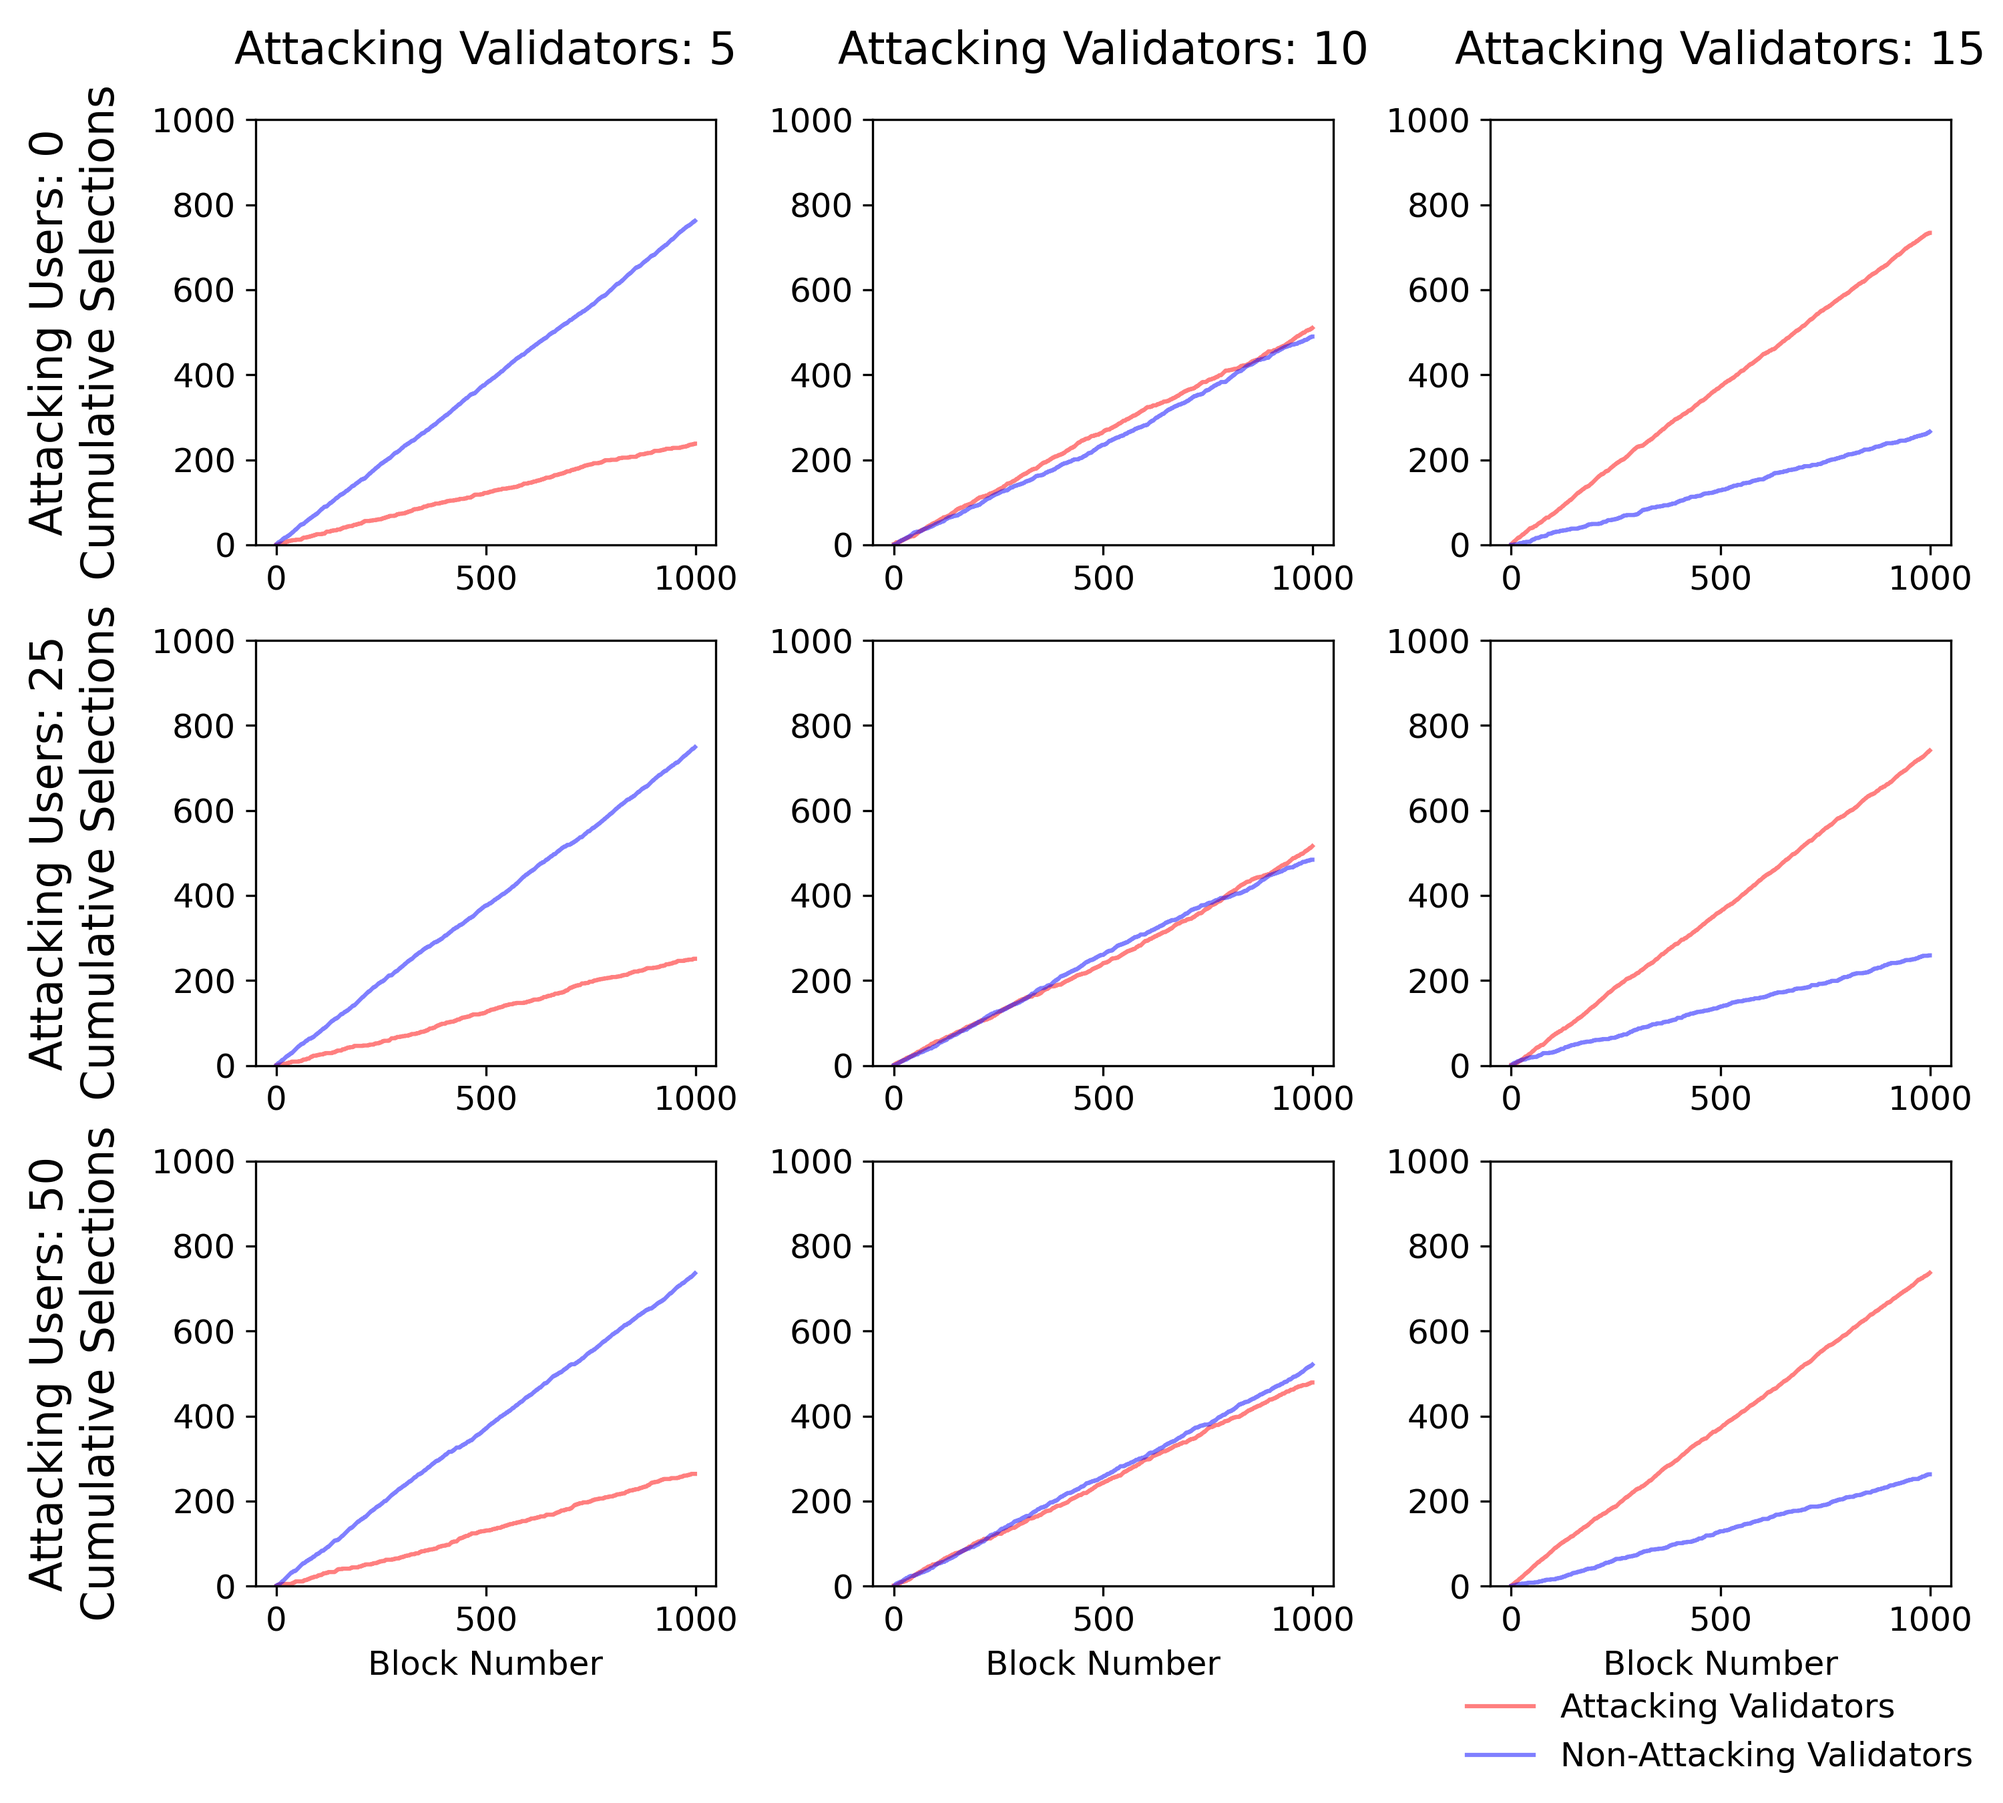
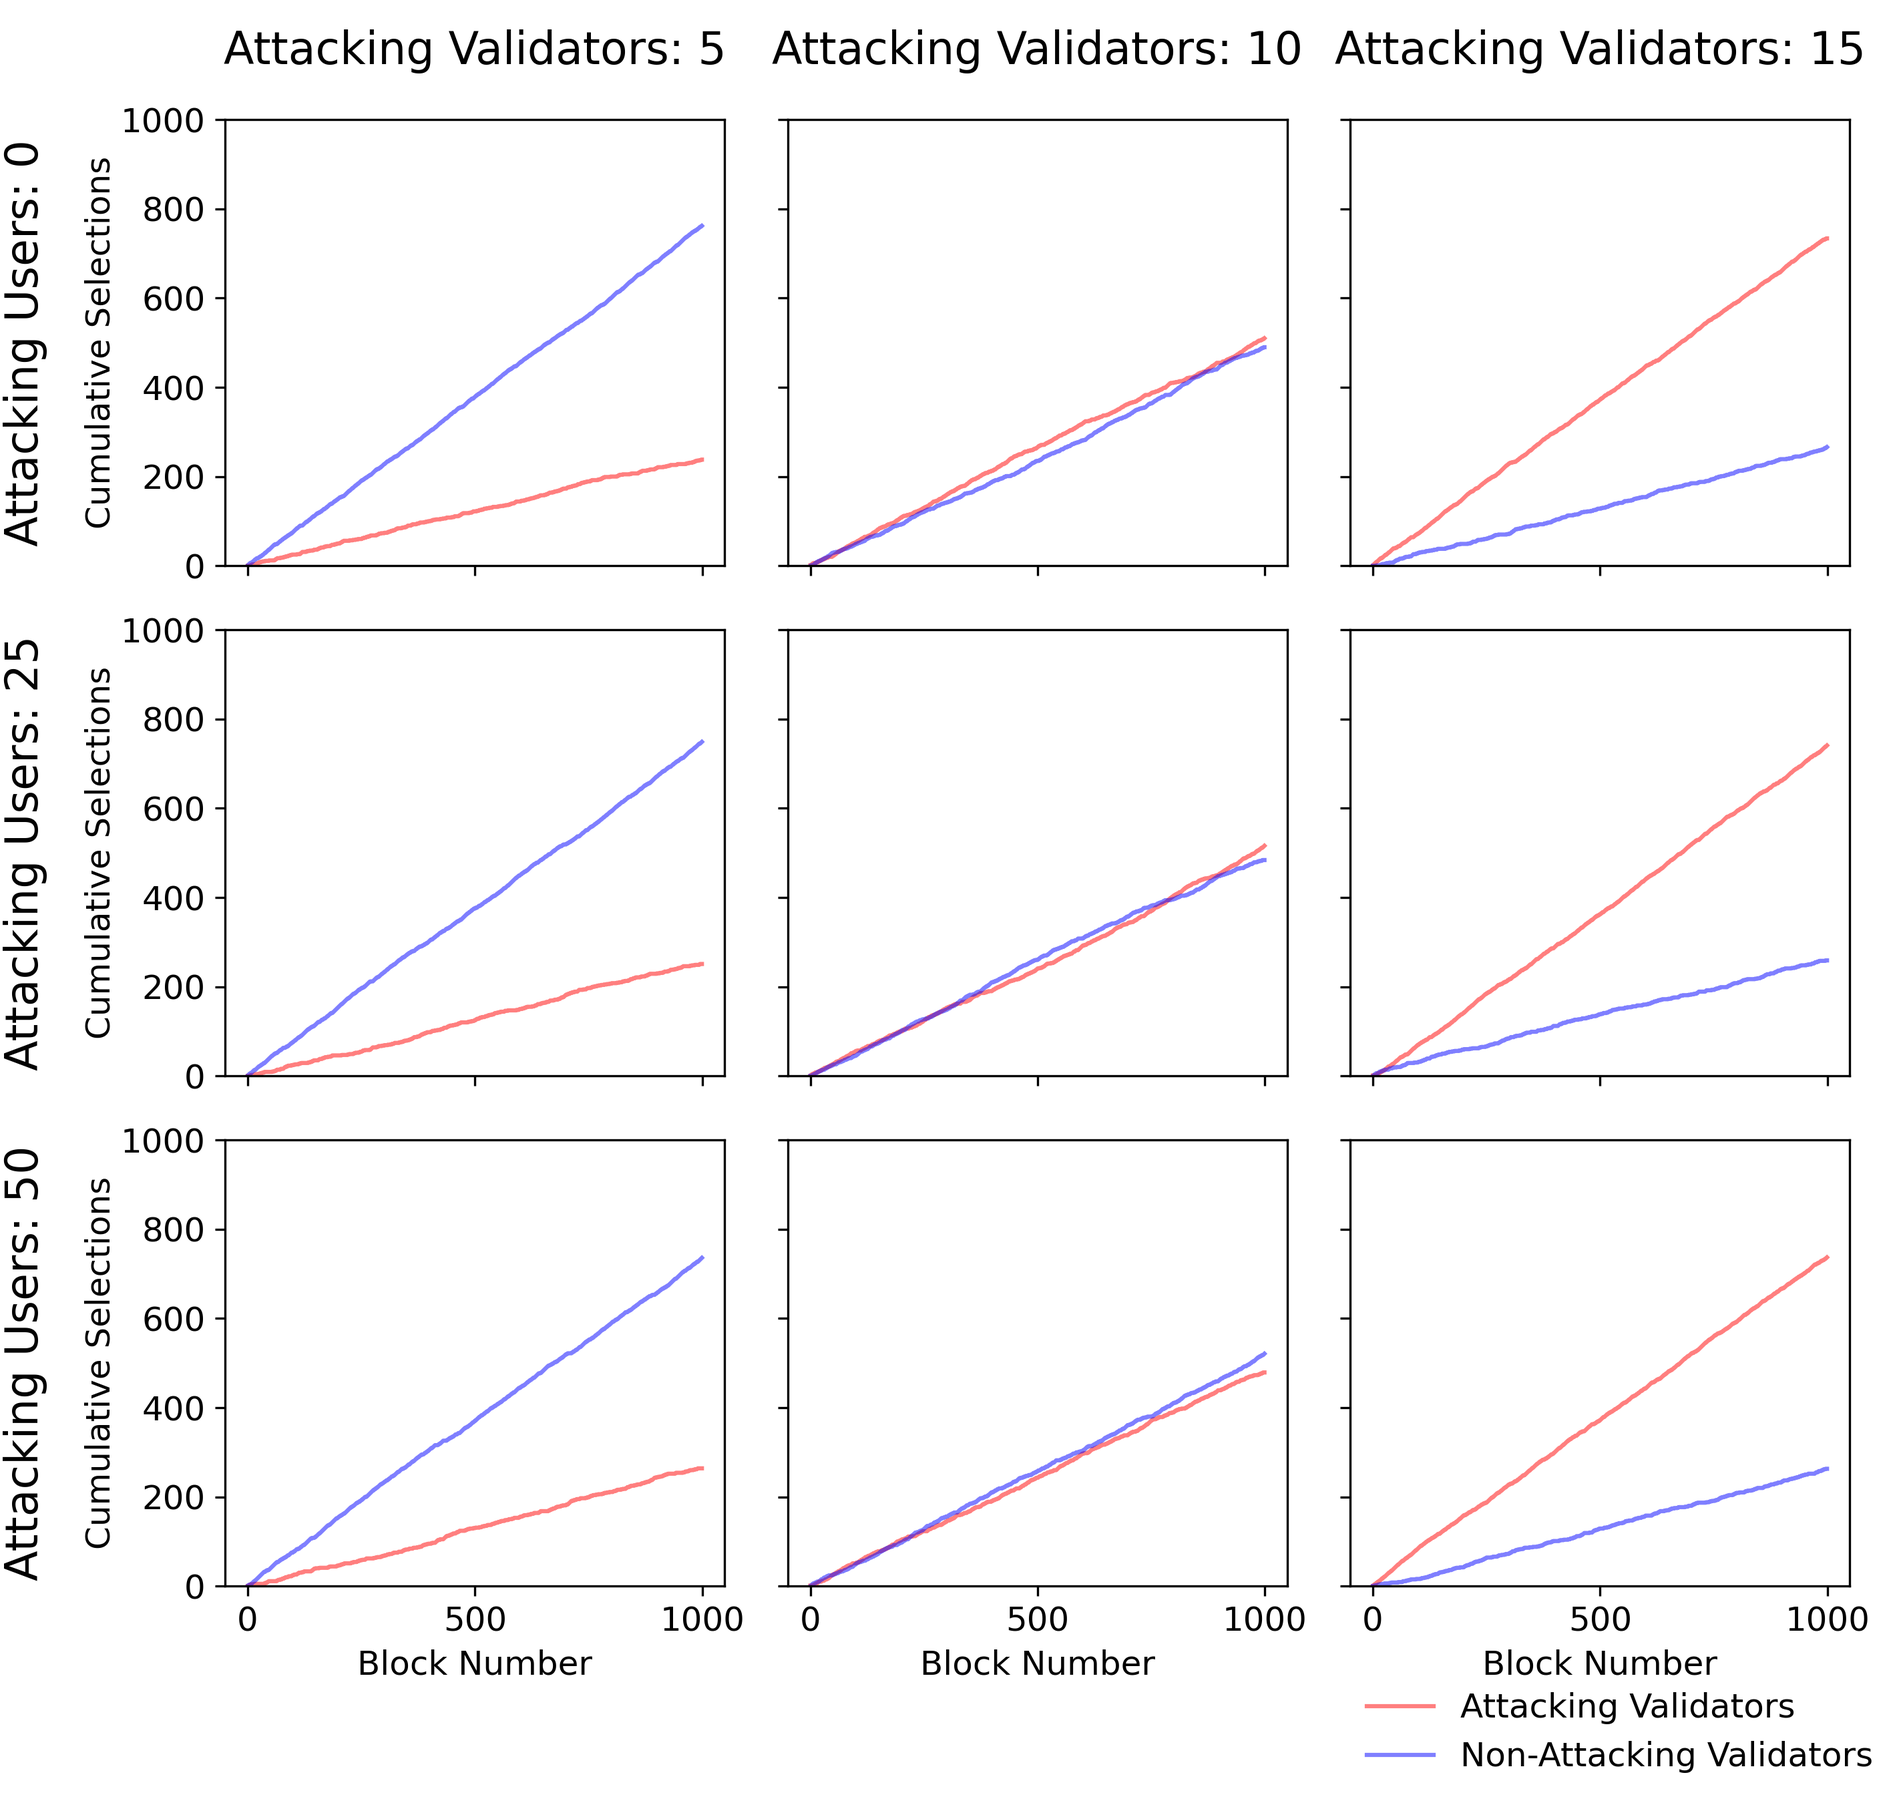
3*3 update

diff --git a/plots/ss/pbs_selection_3*3.py b/plots/ss/pbs_selection_3*3.py
@@ -41,63 +41,90 @@ def get_builder_counts_by_block(file_path, builder_attack_count):
 
     return attacking_counts, non_attacking_counts
 
-def parse_filename(filename):
-    """Parse the filename to extract builder and user attack counts."""
-    match = re.search(r'builders(\d+)_users(\d+)', filename)
-    if match:
-        try:
-            builder_attack_count = int(match.group(1))
-            user_attack_count = int(match.group(2))
-            return builder_attack_count, user_attack_count
-        except ValueError:
-            print(f"Could not parse builder or user attack counts from filename: {filename}")
-    else:
-        print(f"Skipping file with unexpected format: {filename}")
-    return None, None
-
 def plot_cumulative_selections_over_blocks(data_folder, configs):
-    """Plot cumulative selections over blocks for specified builder and user attack configurations as a 3x3 grid."""
+    """Plot cumulative selections over blocks for specified builder and user attack configurations in a 3x3 grid."""
     # Ensure the output directory exists
     output_dir = 'figures/ss'
     os.makedirs(output_dir, exist_ok=True)
 
-    # Set up the 3x3 grid
-    fig, axes = plt.subplots(3, 3, figsize=(15, 15))
+    # Extract unique counts of builders and users for row/column labels
+    builder_counts = sorted(set(config[0] for config in configs))
+    user_counts = sorted(set(config[1] for config in configs))
+
+    # Adjust figsize to maintain square subplots
+    fig, axes = plt.subplots(len(user_counts), len(builder_counts), figsize=(9.5, 9), squeeze=False)
     y_limit = 1000  # Set common y-axis limit for consistency across plots
-    
-    # Updated font sizes
-    title_font_size = 20  # Larger font for titles
-    label_font_size = 18  # Larger font for axis labels
-    legend_font_size = 14  # Larger font for legend
-    tick_label_font_size = 14  # Larger font for axis tick labels
+
+    # Font sizes for readability
+    label_font_size = 12
+    tick_label_font_size = 12
+    outer_label_font_size = 16
+
+    # Create handles for a unified legend
+    handles = []
+    labels = []
 
     for i, (builder_attack_count, user_attack_count) in enumerate(configs):
         filename = f"pbs_block_data_builders{builder_attack_count}_users{user_attack_count}.csv"
         file_path = os.path.join(data_folder, filename)
+
+        row = user_counts.index(user_attack_count)
+        col = builder_counts.index(builder_attack_count)
+        ax = axes[row, col]
         
         if not os.path.exists(file_path):
             print(f"File not found: {file_path}")
+            ax.text(0.5, 0.5, "File Not Found", ha='center', va='center', fontsize=label_font_size)
+            ax.set_axis_off()
             continue
         
         attacking_counts, non_attacking_counts = get_builder_counts_by_block(file_path, builder_attack_count)
         block_numbers = list(range(len(attacking_counts)))
 
-        # Locate subplot position
-        ax = axes[i // 3, i % 3]
-        
-        # Plot cumulative selections
-        ax.plot(block_numbers, np.cumsum(attacking_counts), label='Attacking Builders', color='red', alpha=0.5)
-        ax.plot(block_numbers, np.cumsum(non_attacking_counts), label='Non-Attacking Builders', color='blue', alpha=0.5)
-        ax.set_xlabel('Block Number', fontsize=label_font_size)
-        ax.set_ylabel('Cumulative Selections', fontsize=label_font_size)
-        ax.set_title(f'Attacking Builder Number = {builder_attack_count}\nAttacking User Number = {user_attack_count}', fontsize=title_font_size)
+        # Plot cumulative selections without subplot titles
+        line1, = ax.plot(block_numbers, np.cumsum(attacking_counts), label='Attacking Builders', color='red', alpha=0.5)
+        line2, = ax.plot(block_numbers, np.cumsum(non_attacking_counts), label='Non-Attacking Builders', color='blue', alpha=0.5)
         ax.set_ylim(0, y_limit)
-        ax.legend(loc='upper left', fontsize=legend_font_size)
         
-        # Set tick label font size for both x and y axes
+        # Add handles and labels for the legend
+        if not handles:
+            handles.extend([line1, line2])
+            labels.extend(['Attacking Builders', 'Non-Attacking Builders'])
+        
+        if row != len(user_counts) - 1:  # Not bottom row
+            ax.tick_params(axis='x', labelbottom=False)  # Hide x-axis labels but keep tick marks
+        if col != 0:  # Not leftmost column
+            ax.tick_params(axis='y', labelleft=False)  # Hide y-axis labels but keep tick marks
+
+        # Set axis labels only for edge subplots
+        if row == len(user_counts) - 1:
+            ax.set_xlabel('Block Number', fontsize=label_font_size)
+        
+        # Set tick label font size
         ax.tick_params(axis='both', labelsize=tick_label_font_size)
 
-    plt.tight_layout()
+    # Add outer titles for rows and columns
+    for ax, col_val in zip(axes[0], builder_counts):
+        ax.set_title(f'Attacking Builders: {col_val}', fontsize=outer_label_font_size, pad=20)
+    
+    for ax, row_val in zip(axes[:, 0], user_counts):
+        ax.annotate(
+            f'Attacking Users: {row_val}', 
+            xy=(0, 0.5), xytext=(-0.4, 0.5),
+            textcoords='axes fraction', ha='center', va='center',
+            fontsize=outer_label_font_size, rotation=90, annotation_clip=False
+        )
+        ax.annotate(
+            "Cumulative Selections", 
+            xy=(0, 0.5), xytext=(-0.25, 0.5),
+            textcoords='axes fraction', ha='center', va='center',
+            fontsize=label_font_size, rotation=90, annotation_clip=False
+        )
+
+    # Add a single legend to the bottom right
+    fig.legend(handles, labels, loc='lower right', fontsize=12, frameon=False)
+
+    plt.tight_layout(rect=[0, 0.05, 1, 1])  # Adjust layout to fit the legend
     output_path = os.path.join(output_dir, 'pbs_cumulative_selection_3x3_grid.png')
     plt.savefig(output_path, dpi=300)
     plt.close()

diff --git a/plots/ss/pos_selection_3*3.py b/plots/ss/pos_selection_3*3.py
@@ -42,7 +42,6 @@ def get_validator_counts_by_block(file_path, validator_attack_count):
     return attacking_counts, non_attacking_counts
 
 def plot_cumulative_selections_over_blocks(data_folder, configs):
-    """Plot cumulative selections over blocks for specified validator and user attack configurations in a 3x3 grid."""
     # Ensure the output directory exists
     output_dir = 'figures/ss'
     os.makedirs(output_dir, exist_ok=True)
@@ -52,7 +51,7 @@ def plot_cumulative_selections_over_blocks(data_folder, configs):
     user_counts = sorted(set(config[1] for config in configs))
 
     # Adjust figsize to maintain square subplots
-    fig, axes = plt.subplots(len(user_counts), len(validator_counts), figsize=(10, 9), squeeze=False)
+    fig, axes = plt.subplots(len(user_counts), len(validator_counts), figsize=(9.5, 9), squeeze=False)
     y_limit = 1000  # Set common y-axis limit for consistency across plots
 
     # Font sizes for readability
@@ -91,11 +90,14 @@ def plot_cumulative_selections_over_blocks(data_folder, configs):
             handles.extend([line1, line2])
             labels.extend(['Attacking Validators', 'Non-Attacking Validators'])
         
+        if row != len(user_counts) - 1:  # Not bottom row
+            ax.tick_params(axis='x', labelbottom=False)  # Hide x-axis labels but keep tick marks
+        if col != 0:  # Not leftmost column
+            ax.tick_params(axis='y', labelleft=False)  # Hide y-axis labels but keep tick marks
+
         # Set axis labels only for edge subplots
         if row == len(user_counts) - 1:
             ax.set_xlabel('Block Number', fontsize=label_font_size)
-        if col == 0:
-            ax.set_ylabel('Cumulative Selections', fontsize=label_font_size)
         
         # Set tick label font size
         ax.tick_params(axis='both', labelsize=tick_label_font_size)
@@ -105,7 +107,18 @@ def plot_cumulative_selections_over_blocks(data_folder, configs):
         ax.set_title(f'Attacking Validators: {col_val}', fontsize=outer_label_font_size, pad=20)
     
     for ax, row_val in zip(axes[:, 0], user_counts):
-        ax.set_ylabel(f'Attacking Users: {row_val}\nCumulative Selections', fontsize=outer_label_font_size, labelpad=10)
+        ax.annotate(
+            f'Attacking Users: {row_val}', 
+            xy=(0, 0.5), xytext=(-0.4, 0.5),
+            textcoords='axes fraction', ha='center', va='center',
+            fontsize=outer_label_font_size, rotation=90, annotation_clip=False
+        )
+        ax.annotate(
+            "Cumulative Selections", 
+            xy=(0, 0.5), xytext=(-0.25, 0.5),
+            textcoords='axes fraction', ha='center', va='center',
+            fontsize=label_font_size, rotation=90, annotation_clip=False
+        )
 
     # Add a single legend to the bottom right
     fig.legend(handles, labels, loc='lower right', fontsize=12, frameon=False)
